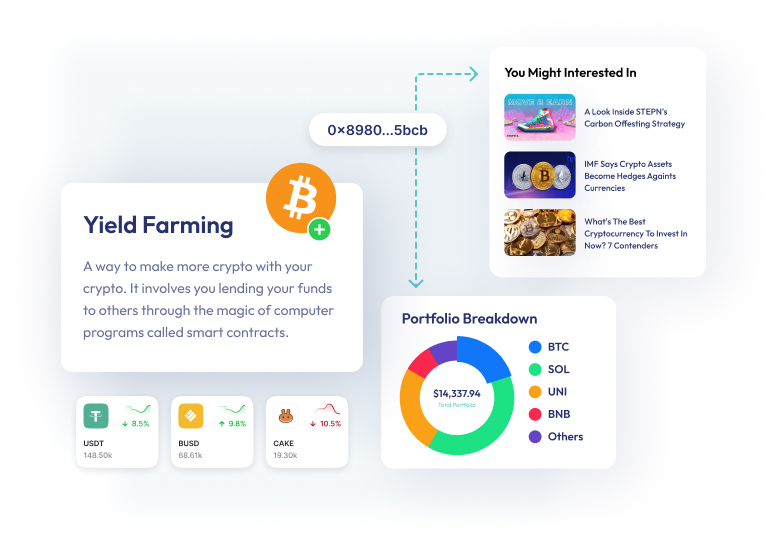
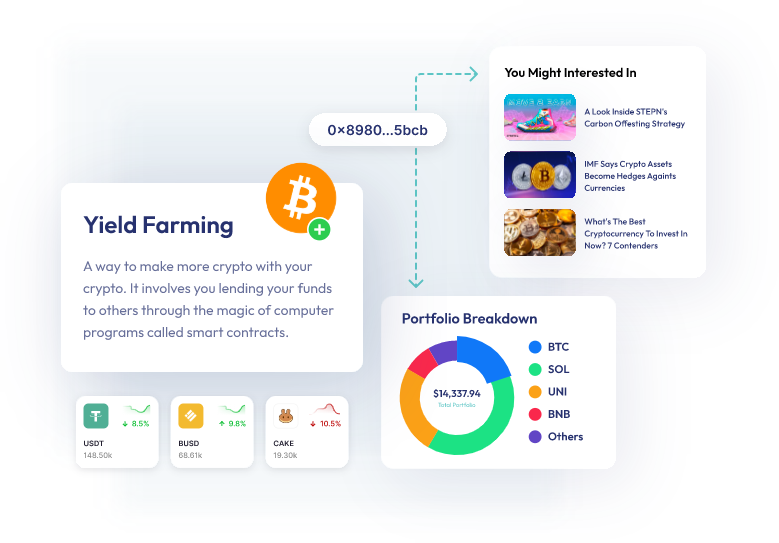
Change hero img

diff --git a/src/components/sections/Hero/index.tsx b/src/components/sections/Hero/index.tsx
@@ -5,7 +5,7 @@ import styles from "./Hero.scss?inline";
 import Title from "~/components/Title";
 import Button from "~/components/Button";
 
-import Hero from "../../../assets/images/hero/hero.svg";
+import Hero from "../../../assets/images/hero/hero.webp";
 import CoingeckoLogo from "../../../assets/images/hero/coingecko.svg";
 import DebankLogo from "../../../assets/images/hero/debank.svg";
 import AnkrLogo from "../../../assets/images/hero/ankr.svg";
